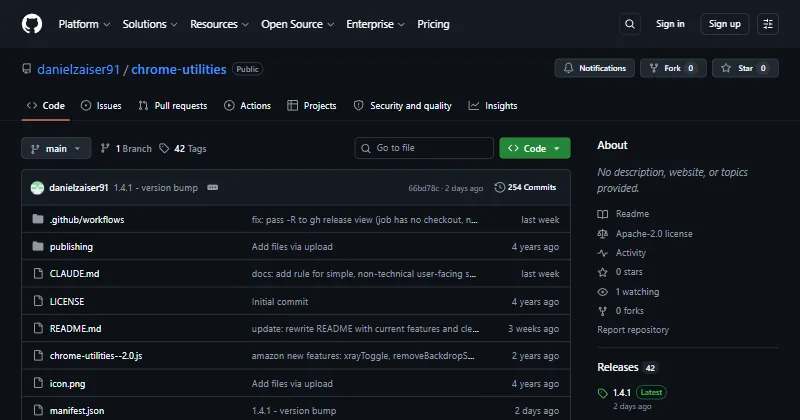
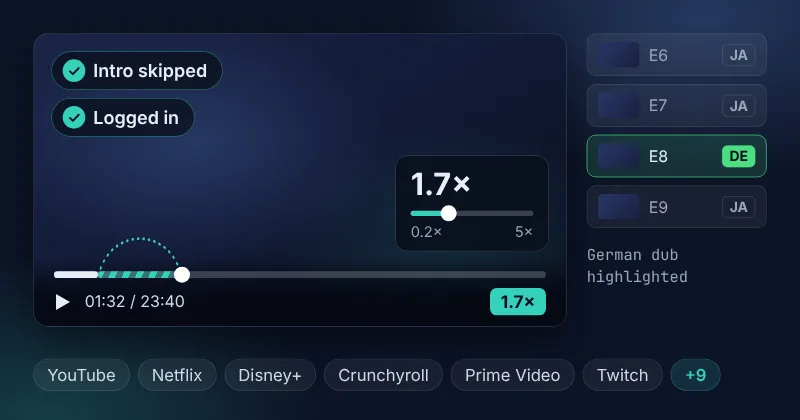
feat(projekte): Werbebild für chrome-utilities statt GitHub-Screenshot (#3)
Der Screenshot der Repo-Seite zeigte eine Dateiliste, nichts vom Nutzen.
Das neue Bild zeigt einen Player, in dem die Erweiterung arbeitet: Intro
übersprungen, angemeldet, Geschwindigkeit 1,7× (0,2× bis 5×), deutsche
Synchro in der Folgenliste markiert, Seiten als Text-Chips.

tools/promo-covers.js baut das Bild aus HTML/CSS (800x420 WebP wie die
übrigen Vorschaubilder); capture-previews.js nimmt die Repo-Seite nicht
mehr auf, damit ein voller Lauf das Bild nicht überschreibt.

diff --git a/tools/promo-covers.js b/tools/promo-covers.js
@@ -1,0 +1,139 @@
+/**
+ * Renders hand-built promo covers for projects whose live page says nothing about
+ * what they do (a browser extension has no demo, and its GitHub repo page is just a
+ * file list).
+ *
+ * Writes 800x420 webp files to public/images/previews/projects/<repo-name>.webp — the
+ * same slot, size and format tools/capture-previews.js fills with screenshots, so the
+ * projects page needs no change. One image serves both languages, so the cover shows
+ * the product (its UI is English) instead of carrying a translated headline.
+ *
+ * Plain HTML/CSS rendered by headless Chrome, like tools/og-cards.js; colours come from
+ * src/styles.scss and the typographic cover (.feat-ph) in projects.scss. Provider names
+ * appear as text only — no third-party logos.
+ *
+ * Usage:  npm i --no-save puppeteer-core  &&  node tools/promo-covers.js [name...]
+ *         (CHROME_PATH overrides the Chrome location)
+ */
+const puppeteer = require('puppeteer-core');
+const fs = require('fs');
+const path = require('path');
+
+const CHROME = process.env.CHROME_PATH || 'C:/Program Files/Google/Chrome/Application/chrome.exe';
+const OUT = path.join(__dirname, '..', 'public', 'images', 'previews', 'projects');
+
+const CHECK = `<svg viewBox="0 0 24 24" width="1em" height="1em" fill="none" stroke="currentColor" stroke-width="3.2" stroke-linecap="round" stroke-linejoin="round"><path d="M4.5 12.5l5 5L19.5 7"/></svg>`;
+const SITES = ['YouTube', 'Netflix', 'Disney+', 'Crunchyroll', 'Prime Video', 'Twitch'];
+
+const BASE = `
+  * { box-sizing: border-box; margin: 0; }
+  body {
+    width: 1200px; height: 630px; overflow: hidden; position: relative;
+    font-family: system-ui, 'Segoe UI', Inter, Roboto, sans-serif; color: #e8eef6;
+    background:
+      radial-gradient(640px 340px at 88% 4%, rgba(106,165,255,.25), transparent 70%),
+      radial-gradient(580px 360px at 6% 100%, rgba(53,208,186,.22), transparent 70%),
+      #0d1428;
+  }
+  .mono { font-family: ui-monospace, 'Cascadia Code', 'JetBrains Mono', Consolas, monospace; }
+  .chips { display: flex; gap: 12px; align-items: center; }
+  .chip {
+    font-size: 25px; padding: 8px 20px; border-radius: 999px; white-space: nowrap;
+    border: 1px solid rgba(255,255,255,.14); background: rgba(255,255,255,.055); color: #cfd9e6;
+  }
+  .chip.more { color: #35d0ba; border-color: rgba(53,208,186,.35); background: rgba(53,208,186,.14); font-weight: 600; }
+  .pill {
+    display: inline-flex; align-items: center; gap: 12px; font-size: 27px; font-weight: 600;
+    padding: 11px 22px 11px 16px; border-radius: 999px; white-space: nowrap;
+    background: rgba(10,15,30,.78); border: 1px solid rgba(53,208,186,.45); color: #e8eef6;
+  }
+  .pill .ok { display: grid; place-items: center; width: 34px; height: 34px; border-radius: 50%; background: #35d0ba; color: #0a0f1e; font-size: 21px; }
+
+  /* Player */
+  .player { position: absolute; border-radius: 22px; overflow: hidden; border: 1px solid rgba(255,255,255,.14);
+    background: linear-gradient(150deg, #1b2547 0%, #131b38 45%, #0a0f1e 100%); box-shadow: 0 24px 60px rgba(0,0,0,.45); }
+  .player::before { content: ''; position: absolute; inset: 0;
+    background: radial-gradient(420px 260px at 30% 38%, rgba(106,165,255,.20), transparent 70%),
+                radial-gradient(360px 240px at 78% 70%, rgba(53,208,186,.12), transparent 70%); }
+  .bar { position: absolute; left: 0; right: 0; bottom: 0; height: 104px; padding: 0 30px;
+    background: linear-gradient(transparent, rgba(5,8,18,.92) 55%); }
+  .track { position: absolute; left: 30px; right: 30px; top: 22px; height: 10px; border-radius: 5px; background: rgba(255,255,255,.2); }
+  .track .intro { position: absolute; left: 9%; width: 17%; top: 0; bottom: 0; border-radius: 5px;
+    background: repeating-linear-gradient(115deg, #35d0ba 0 9px, rgba(53,208,186,.35) 9px 18px); }
+  .track .done { position: absolute; left: 0; width: 9%; top: 0; bottom: 0; border-radius: 5px; background: #e8eef6; }
+  .track .knob { position: absolute; left: 26%; top: -7px; width: 24px; height: 24px; margin-left: -12px; border-radius: 50%; background: #fff; }
+  .jump { position: absolute; left: calc(30px + (100% - 60px) * .09); width: calc((100% - 60px) * .17); bottom: 82px; height: 56px; }
+  .ctrl { position: absolute; left: 30px; right: 30px; bottom: 16px; display: flex; align-items: center; gap: 20px; font-size: 24px; color: #cfd9e6; }
+  .ctrl .sp { margin-left: auto; }
+  .rate { font-weight: 700; font-size: 26px; color: #0a0f1e; background: #35d0ba; padding: 5px 16px; border-radius: 10px; }
+  .pop { position: absolute; padding: 18px 22px 16px; border-radius: 18px; background: rgba(10,15,30,.9);
+    border: 1px solid rgba(255,255,255,.16); }
+  .pop .big { font-size: 46px; font-weight: 700; line-height: 1; }
+  .pop .slider { position: relative; height: 8px; border-radius: 4px; background: rgba(255,255,255,.2); margin: 18px 0 10px; }
+  .pop .slider i { position: absolute; left: 0; width: 31%; top: 0; bottom: 0; border-radius: 4px; background: #35d0ba; }
+  .pop .slider b { position: absolute; left: 31%; top: -8px; width: 24px; height: 24px; margin-left: -12px; border-radius: 50%; background: #fff; }
+  .pop .ends { display: flex; justify-content: space-between; font-size: 22px; color: #9aa7b8; }
+
+  /* Episode list */
+  .eps { position: absolute; display: flex; flex-direction: column; gap: 12px; }
+  .ep { display: flex; align-items: center; gap: 14px; height: 64px; padding: 0 16px; border-radius: 14px; font-size: 24px;
+    border: 1px solid rgba(255,255,255,.12); background: rgba(255,255,255,.055); color: #9aa7b8; }
+  .ep .thumb { width: 62px; height: 38px; border-radius: 7px; background: linear-gradient(135deg, #2a3766, #18203f); }
+  .ep .lang { margin-left: auto; font-weight: 700; font-size: 21px; padding: 3px 10px; border-radius: 8px; border: 1px solid rgba(255,255,255,.18); }
+  .ep.de { border-color: #4ade80; background: rgba(74,222,128,.14); color: #e8eef6; }
+  .ep.de .lang { background: #4ade80; border-color: #4ade80; color: #0a0f1e; }
+`;
+
+const jumpArrow = `<svg class="jump" viewBox="0 0 200 56" preserveAspectRatio="none" fill="none" stroke="#35d0ba" stroke-width="4" stroke-linecap="round"><path d="M6 52 C 40 -8, 160 -8, 194 52" stroke-dasharray="2 11"/></svg>`;
+const playIcon = `<svg width="26" height="28" viewBox="0 0 26 28"><path d="M3 2l21 12L3 26z" fill="#e8eef6"/></svg>`;
+const chips = `<div class="chips">${SITES.map((s) => `<span class="chip">${s}</span>`).join('')}<span class="chip more">+9</span></div>`;
+
+const player = (w, h, x, y, extra = '') => `
+  <div class="player" style="left:${x}px;top:${y}px;width:${w}px;height:${h}px">
+    ${extra}
+    <div class="bar">
+      <div class="track"><div class="done"></div><div class="intro"></div><div class="knob"></div></div>
+      <div class="ctrl">${playIcon}<span>01:32 / 23:40</span><span class="sp"></span><span class="rate">1.7×</span></div>
+    </div>
+    ${jumpArrow}
+  </div>`;
+
+const pop = (style) => `<div class="pop" style="${style}"><div class="big">1.7×</div><div class="slider"><i></i><b></b></div><div class="ends"><span>0.2×</span><span>5×</span></div></div>`;
+const eps = (style) => `<div class="eps" style="${style}">
+  <div class="ep"><span class="thumb"></span>E6<span class="lang">JA</span></div>
+  <div class="ep"><span class="thumb"></span>E7<span class="lang">JA</span></div>
+  <div class="ep de"><span class="thumb"></span>E8<span class="lang">DE</span></div>
+  <div class="ep"><span class="thumb"></span>E9<span class="lang">JA</span></div>
+</div>`;
+
+
+const COVERS = {
+  // A generic video player doing what the extension does on every episode: intro skipped,
+  // already logged in, speed 1.7x on the 0.2x-5x range, the German dub marked in the
+  // episode list, and the supported sites as chips (6 named + 9 = the 15 on the card).
+  'chrome-utilities': `<style>${BASE}</style>
+    ${player(800, 440, 50, 50, `
+      <span class="pill" style="position:absolute;left:26px;top:26px"><span class="ok">${CHECK}</span>Intro skipped</span>
+      <span class="pill" style="position:absolute;left:26px;top:96px"><span class="ok">${CHECK}</span>Logged in</span>
+      ${pop('right:26px;bottom:112px;width:230px')}`)}
+    ${eps('left:880px;top:50px;width:270px')}
+    <div class="mono" style="position:absolute;left:880px;top:366px;width:270px;font-size:23px;line-height:1.45;color:#9aa7b8">German dub<br/>highlighted</div>
+    <div style="position:absolute;left:50px;right:50px;bottom:44px">${chips}</div>`,
+};
+
+(async () => {
+  const only = process.argv.slice(2);
+  const browser = await puppeteer.launch({ executablePath: CHROME, headless: 'new', args: ['--hide-scrollbars'] });
+  for (const [name, html] of Object.entries(COVERS)) {
+    if (only.length && !only.includes(name)) continue;
+    const page = await browser.newPage();
+    // CSS viewport 1200x630, bitmap 800x420 via dsf 2/3 — same as capture-previews.js.
+    await page.setViewport({ width: 1200, height: 630, deviceScaleFactor: 2 / 3 });
+    await page.setContent(html, { waitUntil: 'load' });
+    const file = path.join(OUT, `${name}.webp`);
+    await page.screenshot({ path: file, type: 'webp', quality: 82 });
+    console.log(`OK  ${name} (${Math.round(fs.statSync(file).size / 1024)} KB)`);
+    await page.close();
+  }
+  await browser.close();
+})();

diff --git a/tools/capture-previews.js b/tools/capture-previews.js
@@ -115,7 +115,8 @@ const TARGETS = {
     `,
   },
   // Public repos without a live demo: the GitHub repo page (dark via --force-dark-mode).
-  'chrome-utilities': { url: `${GH}/chrome-utilities`, wait: 2500 },
+  // chrome-utilities is not captured here: its cover is built by tools/promo-covers.js
+  // (a repo file list says nothing about what the extension does).
   'bubble-notifications': { url: `${GH}/bubble-notifications`, wait: 2500 },
   'best_posts': { url: `${GH}/best_posts`, wait: 2500 },
   'custom-scrollbars': { url: `${GH}/custom-scrollbars`, wait: 2500 },
